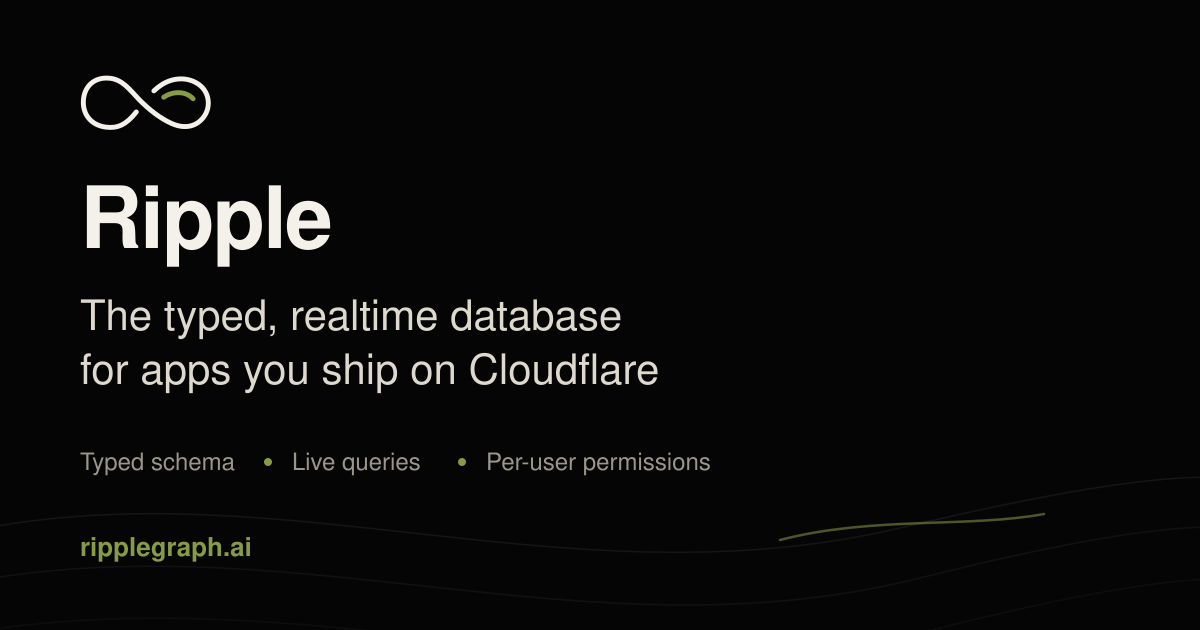
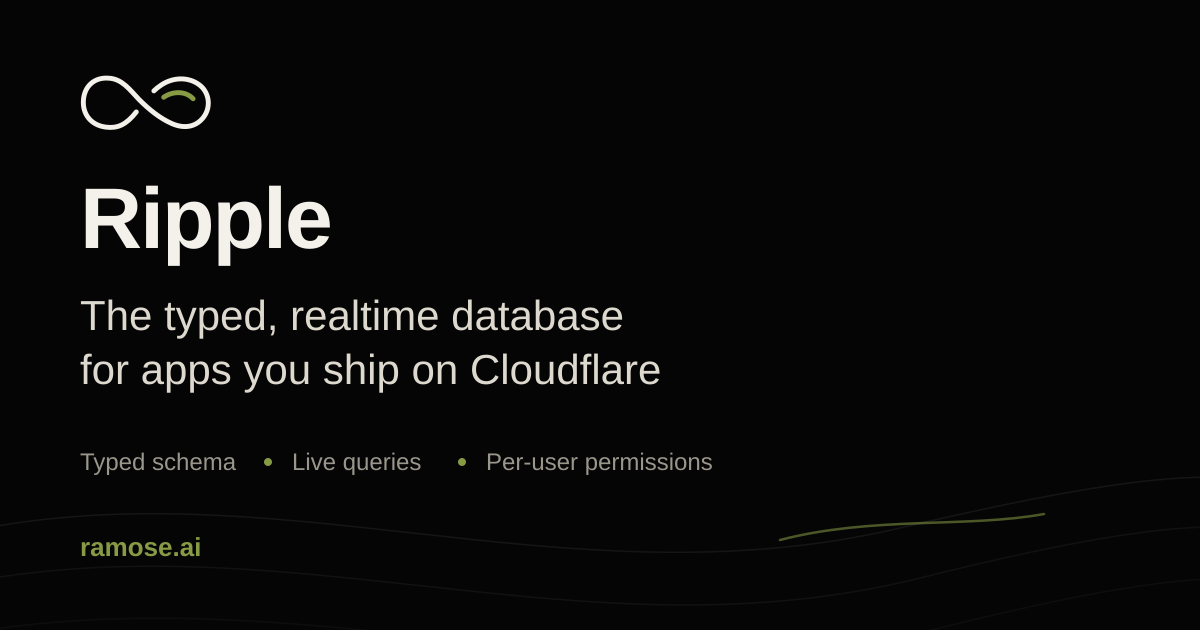
docs: publish to ramose.ai on merge to master/main
Make ramose.ai the production docs domain: the prod stage of
website/alchemy.run.ts now attaches it by default (RIPPLE_DOCS_DOMAIN
overrides, on any stage, which is also the tested attach path). Point the
Astro site URL, OG card, and README/CONTRIBUTING docs links at ramose.ai;
the workers.dev URL stays up as a fallback.

Verified end-to-end: a scratch stage attached docs-test.ramose.ai via the
same code path (zone lookup, DNS record, cert all automatic) and served
the built site with 200s before being destroyed.

diff --git a/website/alchemy.run.ts b/website/alchemy.run.ts
@@ -10,9 +10,11 @@
  *
  * `--stage prod` pins the Worker name to `ripple-docs` so the URL
  * https://ripple-docs.tvanhens.workers.dev stays stable across deploys
- * (and after CI cache eviction). Set `RIPPLE_DOCS_DOMAIN` to attach a
- * custom domain; the zone must already exist in the account. Merges to
- * master publish this stage via `.github/workflows/docs-publish.yml`.
+ * (and after CI cache eviction), and serves the site at https://ramose.ai
+ * (the zone must exist in the account; Alchemy manages the DNS record and
+ * certificate). `RIPPLE_DOCS_DOMAIN` overrides the hostname — on any stage,
+ * which is also how the domain-attach path is tested without touching prod.
+ * Merges to master publish this stage via `.github/workflows/docs-publish.yml`.
  *
  * No `main` is provided, so no Worker script is uploaded: Cloudflare's asset
  * layer answers every request, with Starlight's built 404.html serving misses.
@@ -31,7 +33,10 @@ export const Website = Cloudflare.Website.StaticSite(
   "Website",
   Effect.gen(function* () {
     const stage = yield* Alchemy.Stage;
-    const domain = process.env.RIPPLE_DOCS_DOMAIN;
+    // `||` (not `??`): CI passes the variable through unconditionally, so an
+    // unset GitHub variable arrives as "" and must still mean "the default".
+    const domain =
+      process.env.RIPPLE_DOCS_DOMAIN || (stage === "prod" ? "ramose.ai" : undefined);
     return {
       cwd: here,
       command: "bun run build",
@@ -42,7 +47,7 @@ export const Website = Cloudflare.Website.StaticSite(
       // Stable physical name on prod only — preview stages keep Alchemy's
       // per-stage name so `pr-<n>` Workers never collide with production.
       ...(stage === "prod" ? { name: "ripple-docs" } : {}),
-      ...(stage === "prod" && domain ? { domain } : {}),
+      ...(domain ? { domain } : {}),
     };
   }),
 );

diff --git a/website/src/styles/theme.css b/website/src/styles/theme.css
@@ -1,5 +1,5 @@
 /**
- * ripplegraph.ai brand theme (brand guide 0.1).
+ * ramose.ai brand theme (brand guide 0.1).
  *
  * Palette: VOID #050505 · WARM WHITE #F3F1EA · SIGNAL MOSS #879B45 · SAND #DED9CE.
  * Balance: ~70% void, ~20% warm white, ≤10% moss. Moss marks intelligence,

diff --git a/README.md b/README.md
@@ -2,7 +2,7 @@
 
 A modern Effect-native graph database on Cloudflare.
 
-Docs: **[ripple-docs.tvanhens.workers.dev](https://ripple-docs.tvanhens.workers.dev)**.
+Docs: **[ramose.ai](https://ramose.ai)**.
 
 One Durable Object writes. Immutable segment trees live in R2. Datalog runs
 at the edge, next to your app. A database is a name — `ripple.db("acme",
@@ -19,7 +19,7 @@ Catalog)` and you're in. No provision step.
 - **Db-per-tenant is a function call.** One Alchemy resource, one
   `RIPPLE_TOKEN` (unset = open), or a `RIPPLE_POLICY` that turns JWT
   claims into a per-request filtered `Db` (see
-  [Auth and policy](https://ripple-docs.tvanhens.workers.dev/guides/auth/)).
+  [Auth and policy](https://ramose.ai/guides/auth/)).
   Every name shares the peer.
 - **The invariants are the product.** Single writer. Dense `t`.
   Persist-before-ack. QueryReplicas are first-class — workers never read
@@ -81,7 +81,7 @@ UI connects. Per-tenant names call `db.install()` at tenant-creation instead. `R
 one bearer token; leave it unset and the peer is open. Set `RIPPLE_POLICY` and
 the peer verifies JWTs, ties each token to one database, and filters reads /
 checks writes against the policy in
-[Auth and policy](https://ripple-docs.tvanhens.workers.dev/guides/auth/).
+[Auth and policy](https://ramose.ai/guides/auth/).
 
 An app Worker binds the same server (`yield* Ripple.ReadWriteDatabases(Server)`,
 under `Ripple.ServerBinding` or `Ripple.ServerHttp`) and calls
@@ -161,7 +161,7 @@ views.
 - Immutable EAVT graph. Time travel is a view, not a dump.
 - Seek-driven datalog at the edge. `Ripple.query` builds a typed value;
   `db.q` and `db.live` run it — once or as a `Stream` on the session socket.
-  See [Query and pull](https://ripple-docs.tvanhens.workers.dev/guides/queries/).
+  See [Query and pull](https://ramose.ai/guides/queries/).
 - One writer per name, dense `t`, persist-before-ack.
 - QueryReplicas hold novelty; workers read through them.
 - Privilege is the capability you bind: `Ripple.ReadWriteDatabases` or
@@ -180,8 +180,8 @@ bun alchemy deploy              # $USER stage
 bun alchemy deploy --stage prod
 ```
 
-Docs: [ripple-docs.tvanhens.workers.dev](https://ripple-docs.tvanhens.workers.dev).
+Docs: [ramose.ai](https://ramose.ai).
 Contributing (tests, CI, Cloudflare e2e): [`CONTRIBUTING.md`](CONTRIBUTING.md).
-Ops: [Runbook](https://ripple-docs.tvanhens.workers.dev/reference/runbook/).
+Ops: [Runbook](https://ramose.ai/reference/runbook/).
 Recorded benches:
 [`bench/RESULTS.md`](bench/RESULTS.md).

diff --git a/CONTRIBUTING.md b/CONTRIBUTING.md
@@ -1,7 +1,7 @@
 # Contributing to Ripple
 
 Development notes for people changing Ripple itself. Consumer docs live at
-[ripple-docs.tvanhens.workers.dev](https://ripple-docs.tvanhens.workers.dev)
+[ramose.ai](https://ramose.ai)
 (source in `website/`); the short path is [`README.md`](README.md). In-repo
 design notes stay in `docs/` (`API.md`, `AUTH_LAYER.md`, `QUERY.md`,
 `RUNBOOK.md`).
@@ -69,8 +69,9 @@ stage name is unguessable and torn down at the end of the run.
 The e2e, docs-preview, and docs-publish jobs use the GitHub **Development**
 environment (`environment: Development`). Put `CLOUDFLARE_API_TOKEN` there as
 a secret and `CLOUDFLARE_ACCOUNT_ID` as a variable (or secret). Optional:
-`RIPPLE_DOCS_DOMAIN` (variable) attaches a custom hostname to the production
-docs Worker (the zone must already exist in the account). Cursor Cloud Agents
+`RIPPLE_DOCS_DOMAIN` (variable) overrides the production docs hostname
+(default `ramose.ai`; the zone must already exist in the account, and the
+token must be able to read the zone and edit its Workers). Cursor Cloud Agents
 need the same names in the Cursor secrets panel — see
 [`.cursor/CLOUD.md`](.cursor/CLOUD.md).
 
@@ -101,9 +102,13 @@ Store and edge-preview token scopes beyond that minimal set.
 ### Docs production
 
 Every push to `master` (or `main`) publishes `website/` as Alchemy stage
-`prod`: an assets-only Worker named `ripple-docs` at
-[ripple-docs.tvanhens.workers.dev](https://ripple-docs.tvanhens.workers.dev).
-Optional: `RIPPLE_DOCS_DOMAIN` (e.g. `ripplegraph.ai`) attaches a custom
-hostname once the zone exists in the account. Re-runs update the same Worker
+`prod`: an assets-only Worker named `ripple-docs` serving
+[ramose.ai](https://ramose.ai) (the default domain in `website/alchemy.run.ts`;
+Alchemy manages the DNS record and edge certificate on the `ramose.ai` zone).
+The workers.dev URL
+([ripple-docs.tvanhens.workers.dev](https://ripple-docs.tvanhens.workers.dev))
+stays up as well. Optional: `RIPPLE_DOCS_DOMAIN` (variable) overrides the
+hostname — on any stage, which is how the domain-attach path can be tested
+against a scratch stage without touching prod. Re-runs update the same Worker
 (`.alchemy/` is cached; the pinned name plus `--adopt` recovers from a
 cache miss). Manual republish: **Actions → Docs publish → Run workflow**.

diff --git a/website/README.md b/website/README.md
@@ -1,7 +1,7 @@
-# ripplegraph.ai — the docs site
+# ramose.ai — the docs site
 
 The static documentation site for Ripple: [Astro](https://astro.build) +
-[Starlight](https://starlight.astro.build), branded per the ripplegraph.ai
+[Starlight](https://starlight.astro.build), branded per the Ripple
 brand guide (warm white on void black, signal moss as the one accent, Manrope
 as the Avenir Next web fallback), deployed to Cloudflare with Alchemy — the
 same pattern [alchemy.run](https://alchemy.run) uses for its own website.
@@ -39,9 +39,10 @@ Requires `CLOUDFLARE_API_TOKEN` and `CLOUDFLARE_ACCOUNT_ID` (see
 PRs that touch `website/` get an automatic preview deployment (stage
 `pr-<number>`) with the URL commented on the PR; the preview is destroyed when
 the PR closes. Merges to `master` / `main` publish the `prod` stage at
-[ripple-docs.tvanhens.workers.dev](https://ripple-docs.tvanhens.workers.dev).
-Set `RIPPLE_DOCS_DOMAIN` on the Development environment later if a custom
-domain should be attached. See `.github/workflows/docs-preview.yml`,
+[ramose.ai](https://ramose.ai) (the default domain in `alchemy.run.ts`;
+[ripple-docs.tvanhens.workers.dev](https://ripple-docs.tvanhens.workers.dev)
+stays up as well). Set `RIPPLE_DOCS_DOMAIN` on the Development environment to
+override the hostname. See `.github/workflows/docs-preview.yml`,
 `.github/workflows/docs-publish.yml`, and the "Docs previews" / "Docs
 production" sections of `CONTRIBUTING.md`.
 
